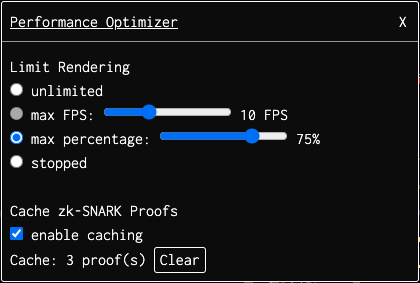
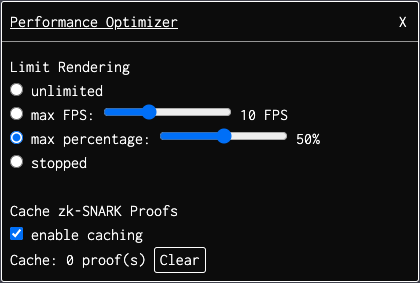
bugfixes and fps mode addition

diff --git a/content/utilities/performance-optimizer/plugin.js b/content/utilities/performance-optimizer/plugin.js
@@ -11,32 +11,62 @@ class PerformanceOptimizerState {
     this.caching = false;
     this.cache = {};
     this.cacheCount = 0;
+
+    this.destroyed = false;
     
-    this.lastRenderStart = 0;
-    this.lastRenderDuration = 0;
-    
+    const requestIDMap = {};
+    let nextRequestID = 0;
+
     window._requestAnimationFrame = window.requestAnimationFrame;
-    window.requestAnimationFrame = callback => window._requestAnimationFrame(() => {
-      if (this.rendering === "fps") {
-        const now = Date.now();
-        if (this.renderingFps > 0 && now - this.lastRenderStart >= 1000 / this.renderingFps) {
-          this.lastRenderStart = now;
-          return callback();
+    const requestAnimationFrame = callback => {
+      let currentCallback, requestID;
+      let lastRenderStart = 0;
+      let lastRenderDuration = 0;
+
+      const execute = () => {
+        delete requestIDMap[requestID];
+        window.requestAnimationFrame = startLoop;
+        currentCallback();
+        window.requestAnimationFrame = requestAnimationFrame;
+      };
+
+      const loop = () => {
+        if (this.destroyed) return currentCallback();
+
+        if (this.rendering === "fps") {
+          const now = Date.now();
+          if (this.renderingFps > 0 && now - lastRenderStart >= 1000 / this.renderingFps) {
+            lastRenderStart = now;
+            return execute();
+          }
+        } else if (this.rendering === "percent") {
+          const now = Date.now();
+          if (this.renderingPercentage > 0 && now - lastRenderStart >= Math.min(lastRenderDuration * 100 / this.renderingPercentage, 1000)) {
+            lastRenderStart = now;
+            execute();
+            lastRenderDuration = Date.now() - now;
+            return;
+          }
+        } else if (this.rendering !== "stopped") {
+          return execute();
         }
-      } else if (this.rendering === "percent") {
-        const now = Date.now();
-        if (this.renderingPercentage > 0 && now - this.lastRenderStart >= Math.min(this.lastRenderDuration * 100 / this.renderingPercentage, 1000)) {
-          this.lastRenderStart = now;
-          callback();
-          this.lastRenderDuration = Date.now() - now;
-          return;
-        }
-      } else if (this.rendering === "stopped") {
-      } else {
-        return callback();
+        requestIDMap[requestID] = window._requestAnimationFrame(loop);
       }
-      window.requestAnimationFrame(callback);
-    });
+      const startLoop = callback => {
+        requestID = nextRequestID++;
+        currentCallback = callback;
+        requestIDMap[requestID] = window._requestAnimationFrame(loop);
+        return requestID;
+      }
+      return startLoop(callback);
+    };
+    window.requestAnimationFrame = requestAnimationFrame;
+
+    window._cancelAnimationFrame = window.cancelAnimationFrame;
+    window.cancelAnimationFrame = requestID => {
+      window._cancelAnimationFrame(requestIDMap[requestID]);
+      delete requestIDMap[requestID];
+    };
     
     df.snarkHelper._getMoveArgs = df.snarkHelper.getMoveArgs;
     df.snarkHelper.getMoveArgs = async (x1, y1, x2, y2, r, distMax) => {
@@ -55,10 +85,13 @@ class PerformanceOptimizerState {
   }
   
   destroy() {
+    this.destroyed = true;
     this.pluginWindow = null;
+    window.cancelAnimationFrame = window._cancelAnimationFrame;
     window.requestAnimationFrame= window._requestAnimationFrame;
     df.snarkHelper.getMoveArgs = df.snarkHelper._getMoveArgs;
     console.log("original functions restored.");
+    delete df.performanceOptimizerState;
   }
 }
 
@@ -82,7 +115,7 @@ class PerformanceOptimizer {
         .append($('<span> unlimited</span>'))
       )
       .append($('<div />')
-        .append($('<input type="radio" name="rendering" value="fps" disabled=true />'))
+        .append($('<input type="radio" name="rendering" value="fps" />'))
         .append($('<span> max FPS: </span>'))
         .append($(`<input type="range" min="0" max="30" value="${state.renderingFps}" class="slider" id="fpsRange">`))
         .append($(`<span id="fpsSpan"> ${state.renderingFps} FPS</span>`))

diff --git a/content/utilities/performance-optimizer/README.md b/content/utilities/performance-optimizer/README.md
@@ -2,5 +2,5 @@
 
 Aims to improve performance under heavy load:
 
-* Reduce render load by limiting percentage of total compute power to spend on rendering. Currently implemented very naively by overwriting `window.requestAnimationFrame`. Could be more sophisiticated in the future if render managers get exposed. Also, limited FPS mode disabled for now as it somehow doesn't work.
+* Reduce render load by limiting percentage of total compute power to spend on rendering. Implemented by overwriting `window.requestAnimationFrame`. Could be more sophisiticated in the future if render managers get exposed.
 * Cache move zk-SNARK proofs. This seems like it could be (in a more optimized form) added to the native game, as it really doesn't have any downsides. Every move between the same two planets after the first one is sped up significantly. Would need somewhat cleverer storage management if it were to be added persistently - currently reset on game launch.

diff --git a/content/utilities/performance-optimizer/index.md b/content/utilities/performance-optimizer/index.md
@@ -1,5 +1,5 @@
 ---
 title: Performance Optimizer
-date: 2021-01-09T03:52:00+01:00
+date: 2021-01-13T15:00:00+01:00
 subtitle: Improve performance under heavy load.
 ---
